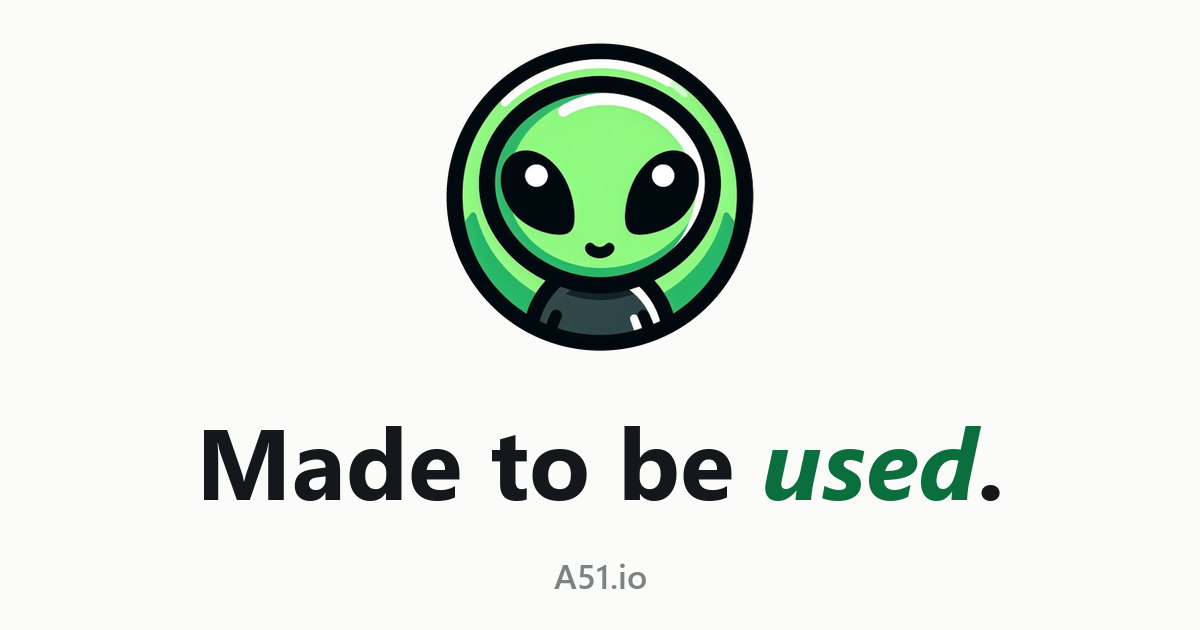
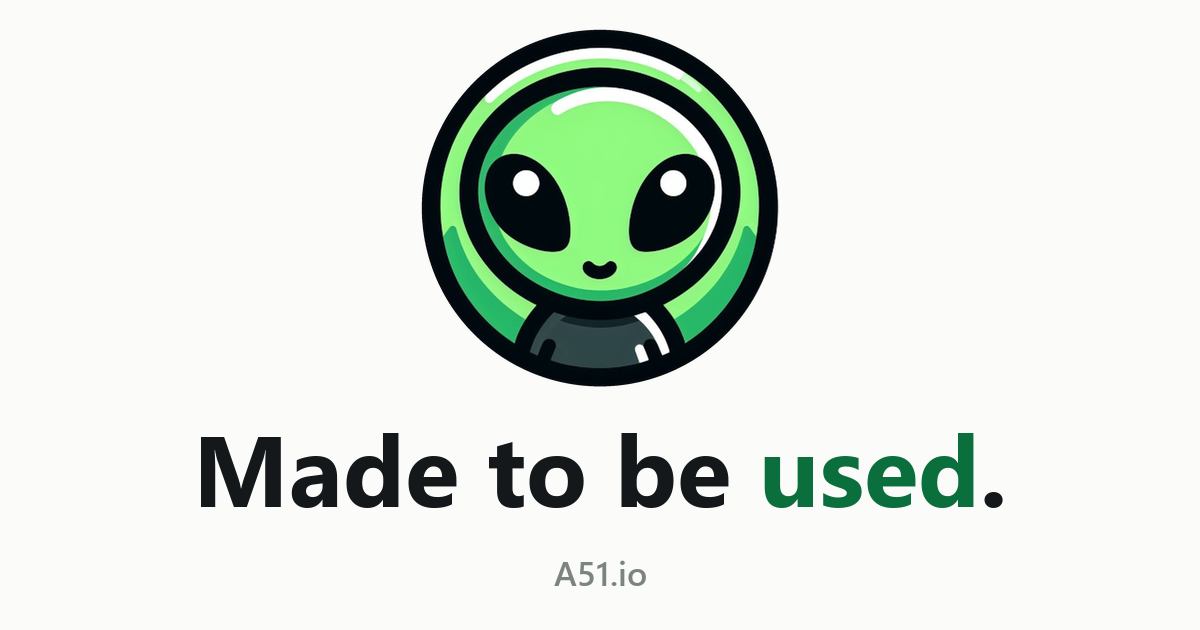
Add OG cards for FOCUSQUARE and polish the A51 card
FOCUSQUARE gets a 1200x630 card: the six preset squares carrying the
app's default Material icons (rendered from the Flutter SDK's own icon
font), wordmark and pitch on the dark ground. The site hero swaps its
minute labels for the same six icons. The A51 card drops the italic and
tightens the layout to match the rest of the set.

Changed region(s): [[0.3392, 0.0302, 0.6475, 0.6333], [0.1542, 0.6635, 0.8325, 0.8143], [0.4625, 0.8746, 0.555, 0.9349]]

diff --git a/FOCUSQUARE/index.html b/FOCUSQUARE/index.html
@@ -10,6 +10,10 @@
 <meta property="og:description" content="Simple focus timer with 8 customizable presets and cross-device sync. One tap. Full focus.">
 <meta property="og:type" content="website">
 <meta property="og:url" content="https://a51.io/FOCUSQUARE/">
+<meta property="og:image" content="https://a51.io/FOCUSQUARE/img/og.png">
+<meta property="og:image:width" content="1200">
+<meta property="og:image:height" content="630">
+<meta name="twitter:card" content="summary_large_image">
 <link rel="icon" href="FOCUSQUARE.svg">
 <style>
 :root{
@@ -74,8 +78,8 @@ a:focus-visible,summary:focus-visible{outline:3px solid var(--white);outline-off
 .free{margin-top:14px;color:var(--gray);font-size:.88rem;letter-spacing:.14em;text-transform:uppercase;font-weight:700}
 
 .hero-art{position:relative;display:grid;grid-template-columns:1fr 1fr;gap:clamp(12px,1.8vw,22px)}
-.hero-art .hsq{position:relative;aspect-ratio:1;border-radius:var(--r)}
-.hero-art .hsq span{position:absolute;top:9%;right:11%;font-weight:800;font-size:clamp(1.2rem,2vw,1.5rem)}
+.hero-art .hsq{aspect-ratio:1;border-radius:var(--r);display:grid;place-items:center}
+.hero-art .hsq svg{width:46%;height:46%;fill:var(--white)}
 
 /* generic colored square */
 .c-red{background:var(--red)} .c-blue{background:var(--blue)} .c-gold{background:var(--gold)}
@@ -194,12 +198,12 @@ footer .copy{margin-left:auto;color:var(--gray);font-size:.92rem}
       </div>
     </div>
     <div class="hero-art" aria-hidden="true">
-      <div class="hsq c-red"><span>45'</span></div>
-      <div class="hsq c-blue"><span>30'</span></div>
-      <div class="hsq c-gold"><span>60'</span></div>
-      <div class="hsq c-green"><span>25'</span></div>
-      <div class="hsq c-teal"><span>20'</span></div>
-      <div class="hsq c-dgreen"><span>40'</span></div>
+      <div class="hsq c-red"><svg viewBox="0 0 24 24"><path d="M20 6h-4V4c0-1.11-.89-2-2-2h-4c-1.11 0-2 .89-2 2v2H4c-1.11 0-1.99.89-1.99 2L2 19c0 1.11.89 2 2 2h16c1.11 0 2-.89 2-2V8c0-1.11-.89-2-2-2zm-6 0h-4V4h4v2z"/></svg></div>
+      <div class="hsq c-blue"><svg viewBox="0 0 24 24"><path d="M21 5c-1.11-.35-2.33-.5-3.5-.5-1.95 0-4.05.4-5.5 1.5-1.45-1.1-3.55-1.5-5.5-1.5S2.45 4.9 1 6v14.65c0 .25.25.5.5.5.1 0 .15-.05.25-.05C3.1 20.45 5.05 20 6.5 20c1.95 0 4.05.4 5.5 1.5 1.35-.85 3.8-1.5 5.5-1.5 1.65 0 3.35.3 4.75 1.05.1.05.15.05.25.05.25 0 .5-.25.5-.5V6c-.6-.45-1.25-.75-2-1zm0 13.5c-1.1-.35-2.3-.5-3.5-.5-1.7 0-4.15.65-5.5 1.5V8c1.35-.85 3.8-1.5 5.5-1.5 1.2 0 2.4.15 3.5.5v11.5z"/><path d="M17.5 10.5c.88 0 1.73.09 2.5.26V9.24C19.21 9.09 18.36 9 17.5 9c-1.7 0-3.24.29-4.5.83v1.66c1.13-.64 2.7-.99 4.5-.99zM13 12.49v1.66c1.13-.64 2.7-.99 4.5-.99.88 0 1.73.09 2.5.26V11.9c-.79-.15-1.64-.24-2.5-.24-1.7 0-3.24.3-4.5.83zm4.5 1.84c-1.7 0-3.24.29-4.5.83v1.66c1.13-.64 2.7-.99 4.5-.99.88 0 1.73.09 2.5.26v-1.52c-.79-.16-1.64-.24-2.5-.24z"/></svg></div>
+      <div class="hsq c-gold"><svg viewBox="0 0 24 24"><path d="M5 13.18v4L12 21l7-3.82v-4L12 17l-7-3.82zM12 3 1 9l11 6 9-4.91V17h2V9L12 3z"/></svg></div>
+      <div class="hsq c-green"><svg viewBox="0 0 24 24"><path d="M20.57 14.86 22 13.43 20.57 12 17 15.57 8.43 7 12 3.43 10.57 2 9.14 3.43 7.71 2 5.57 4.14 4.14 2.71 2.71 4.14l1.43 1.43L2 7.71l1.43 1.43L2 10.57 3.43 12 7 8.43 15.57 17 12 20.57 13.43 22l1.43-1.43L16.29 22l2.14-2.14 1.43 1.43 1.43-1.43-1.43-1.43L22 16.29z"/></svg></div>
+      <div class="hsq c-teal"><svg viewBox="0 0 24 24"><circle cx="12" cy="6" r="2"/><path d="M21 16v-2c-2.24 0-4.16-.96-5.6-2.68l-1.34-1.6C13.68 9.26 13.12 9 12.53 9h-1.05c-.59 0-1.15.26-1.53.72l-1.34 1.6C7.16 13.04 5.24 14 3 14v2c2.77 0 5.19-1.17 7-3.25V15l-3.88 1.55C5.45 16.82 5 17.48 5 18.21 5 19.2 5.8 20 6.79 20H9v-.5c0-1.38 1.12-2.5 2.5-2.5h3c.28 0 .5.22.5.5s-.22.5-.5.5h-3c-.83 0-1.5.67-1.5 1.5v.5h7.21C18.2 20 19 19.2 19 18.21c0-.73-.45-1.39-1.12-1.66L14 15v-2.25C15.81 14.83 18.23 16 21 16z"/></svg></div>
+      <div class="hsq c-dgreen"><svg viewBox="0 0 24 24"><path d="M9.4 16.6 4.8 12l4.6-4.6L8 6l-6 6 6 6 1.4-1.4zm5.2 0 4.6-4.6-4.6-4.6L16 6l6 6-6 6-1.4-1.4z"/></svg></div>
     </div>
   </section>
 
